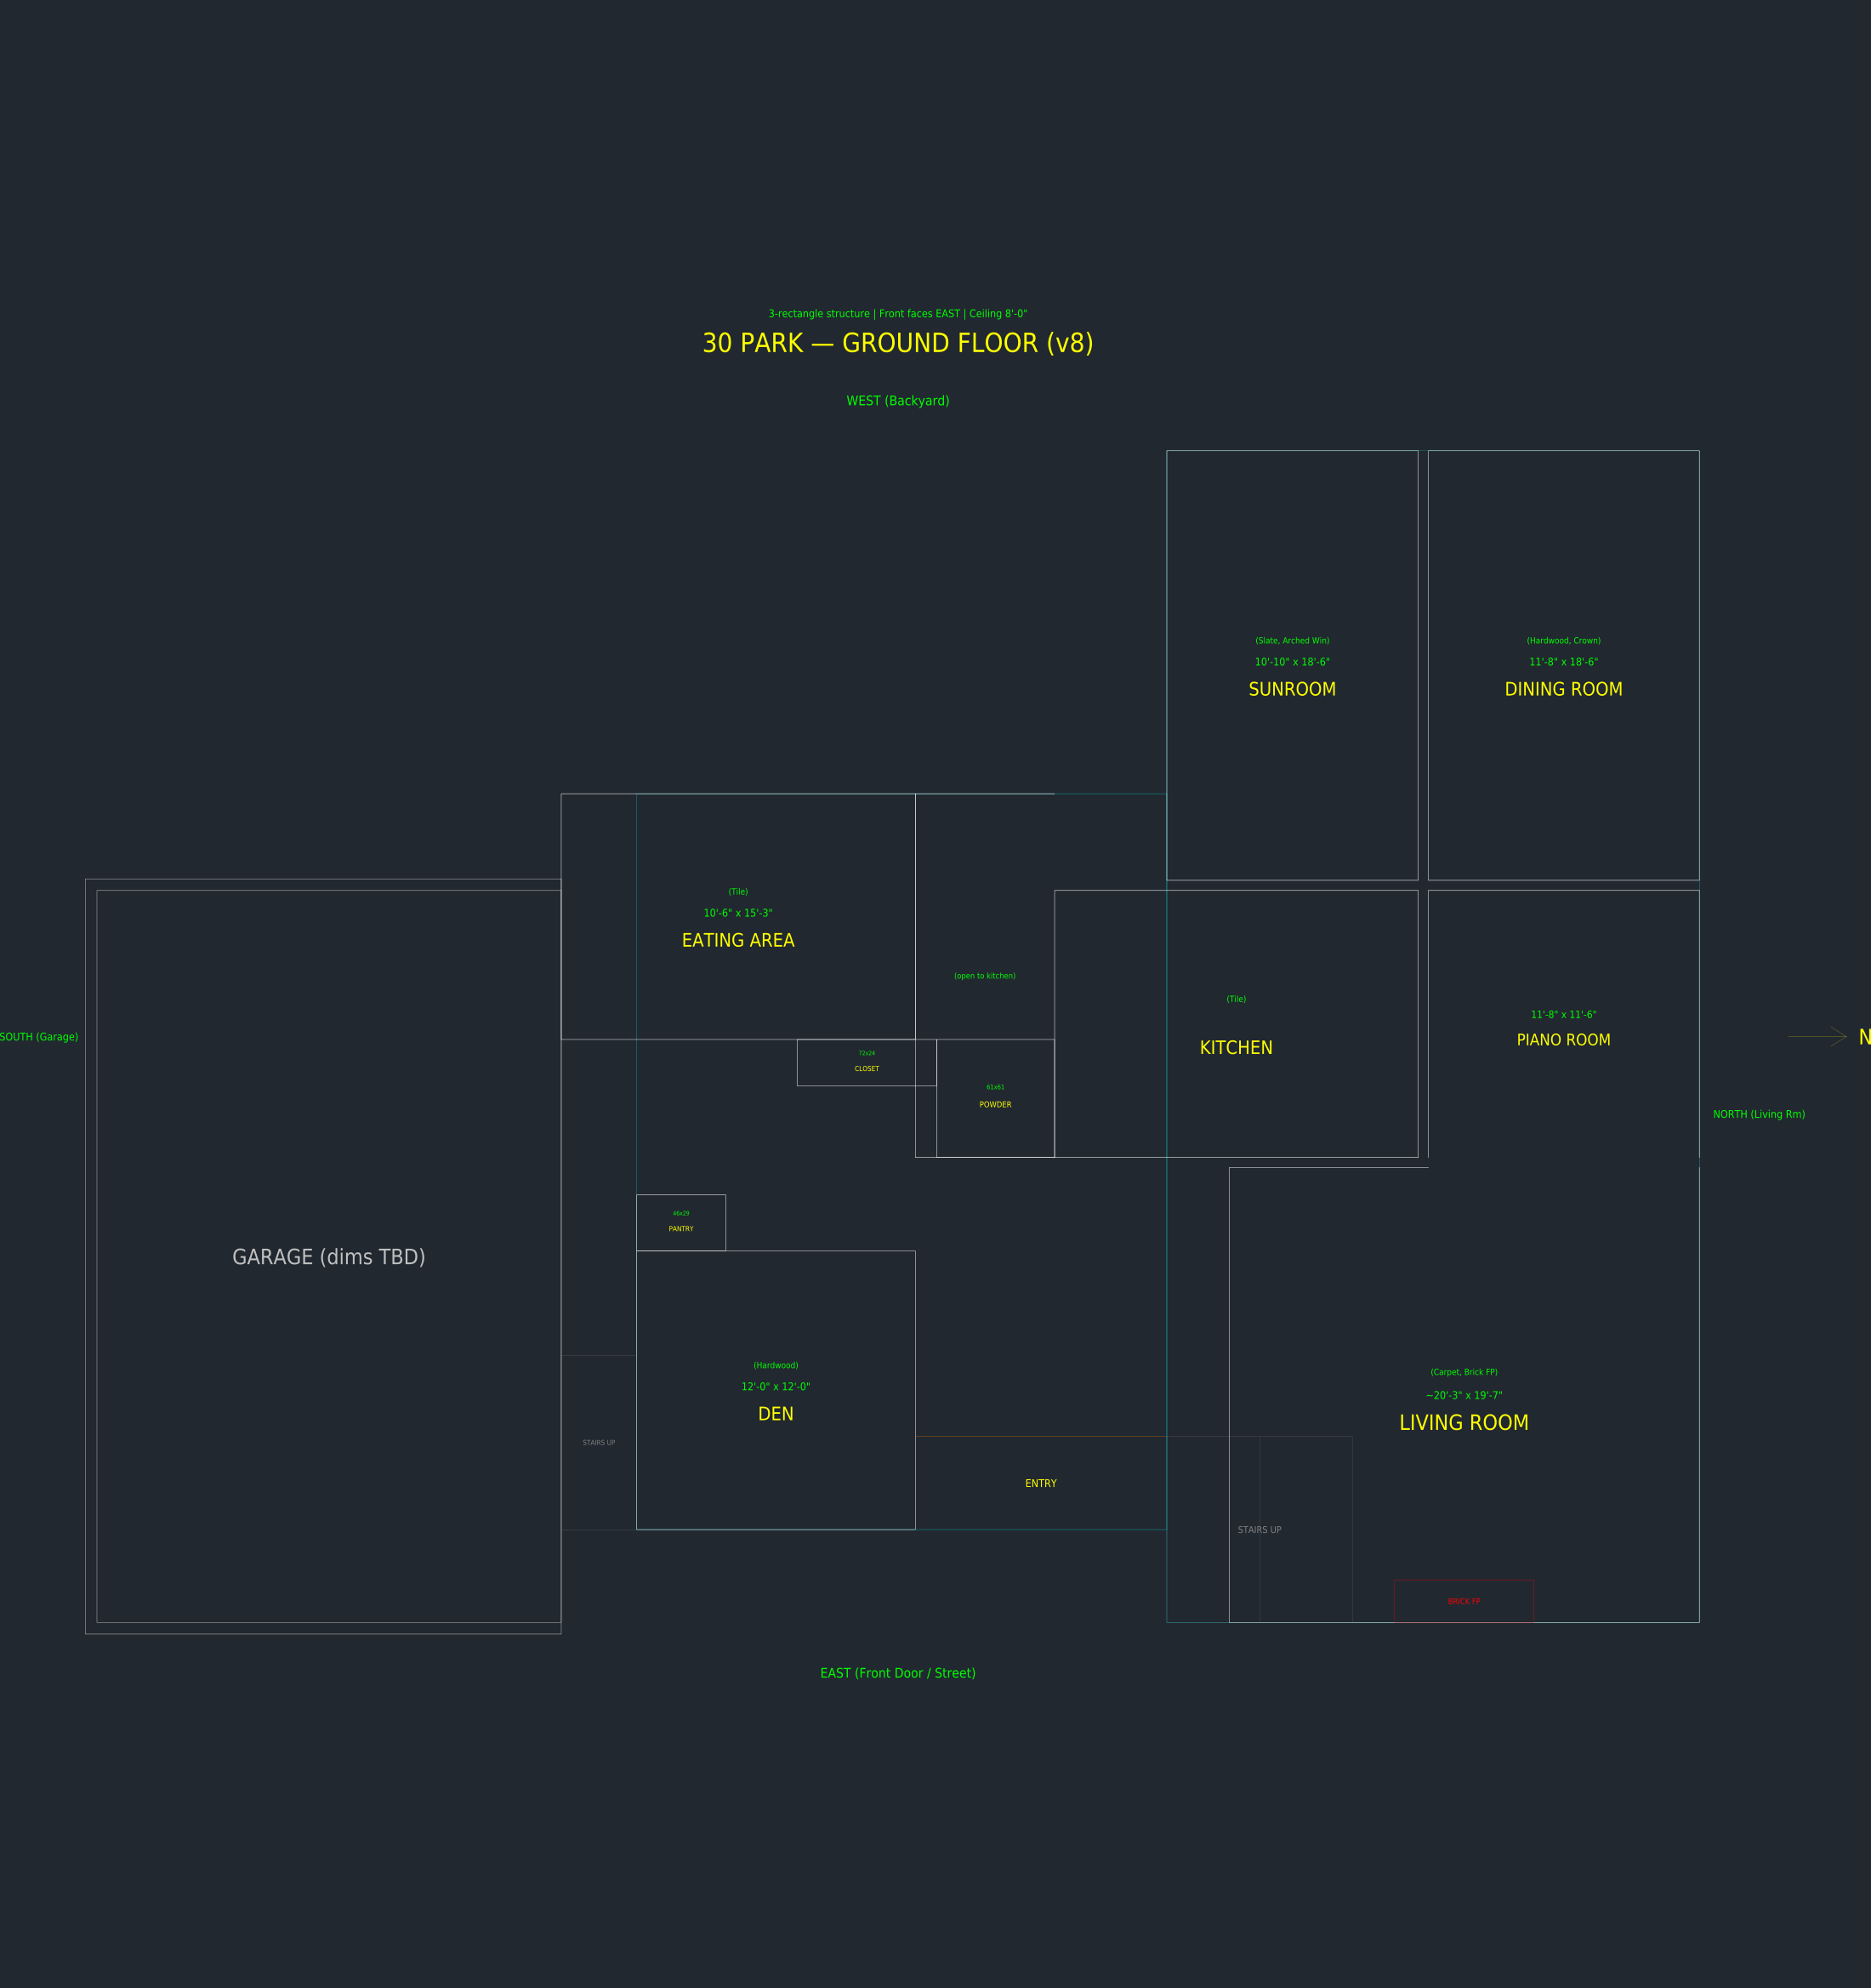
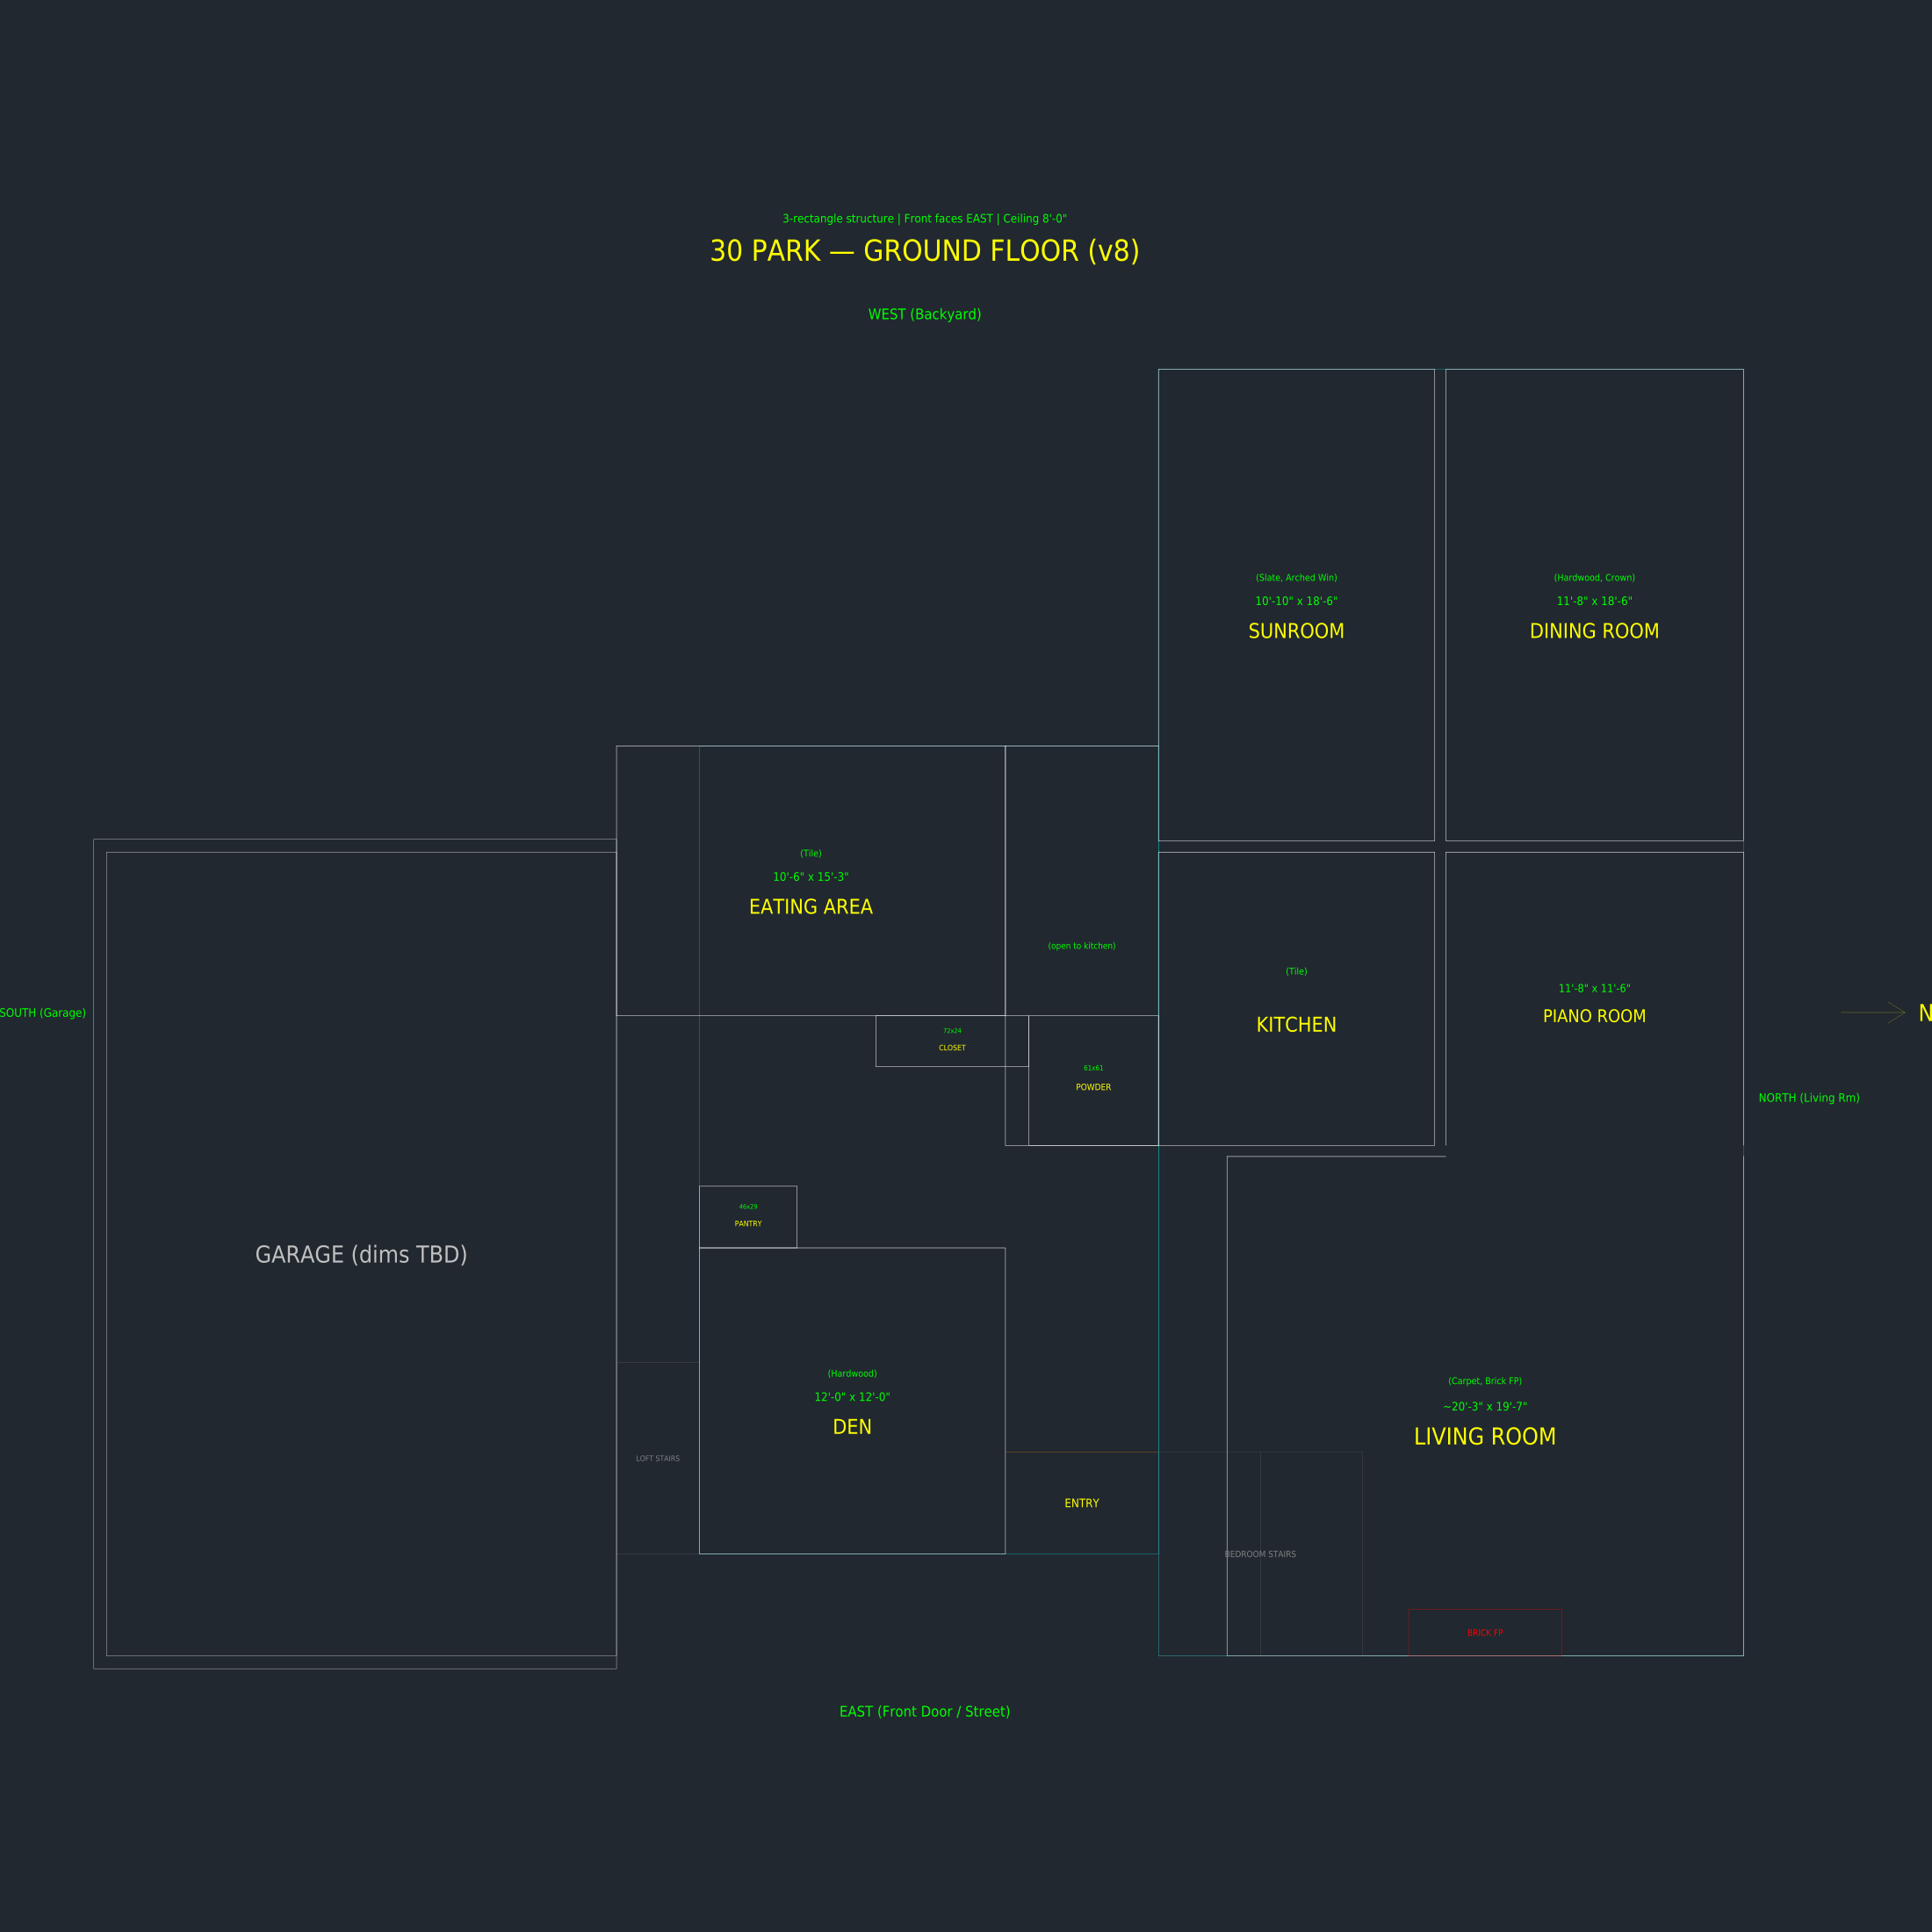
Floor plan v11 — 72in entry band, kitchen east of sunroom, stair labels
- Entryway = 72" (same as open space); both form the north band of central rectangle
- Kitchen south now = sunroom south (kitchen properly 130" N-S, directly east of sunroom)
- Renamed stairs: "Bedroom Stairs" (by living room), "Loft Stairs" (south of den)

diff --git a/docs/current/generate_floor_plan.py b/docs/current/generate_floor_plan.py
@@ -67,8 +67,10 @@ OPEN_N = OPEN_S + 72              # 495 (north edge = kitchen south)
 KIT_S = OPEN_N                    # 495 kitchen south
 DEN_N = EAT_N                     # 423 den north
 DEN_S = DEN_N - 144               # 279 den south
-SUN_S = DEN_N + 130               # 553 (entry 130" from den north to main stairs south)
-SUN_N = SUN_S + 130               # 683 sunroom north
+# kitchen is directly east of the sunroom -> kitchen south = sunroom south
+# entryway = open-space band = 72" (den north to bedroom-stairs south = sunroom south)
+SUN_S = KIT_S                     # 495 sunroom south = kitchen south
+SUN_N = SUN_S + 130               # 625 sunroom north
 KIT_N = SUN_N                     # 683 kitchen north = sun/dining divider line
 DIV_S = SUN_N; DIV_N = DIV_S + I  # sun/dining divider
 DIN_S = DIV_N                     # 688.25
@@ -166,14 +168,14 @@ def generate():
     T((ENTRY_S+ENTRY_N)/2,(FRONTDOOR_Y+DEN_E)/2,"ENTRY",4)
     LN(ENTRY_S,FRONTDOOR_Y,ENTRY_N,FRONTDOOR_Y,"DOOR")   # front-door wall line
 
-    # stairs UP between den (north) and garage (south); landing east wall = den east
+    # LOFT STAIRS between den (north) and garage (south); landing east wall = den east
     R(UPSTAIR_S, DEN_E-90, UPSTAIR_N-UPSTAIR_S, 90, "STR")
-    T((UPSTAIR_S+UPSTAIR_N)/2, DEN_E-45, "STAIRS UP", 2.6, "STR")
+    T((UPSTAIR_S+UPSTAIR_N)/2, DEN_E-45, "LOFT STAIRS", 2.6, "STR")
 
     # main stairs UP — double-wide on living room EAST wall, 180-deg turn
     R(STAIR_S, STAIR_W_Y, STAIR_N-STAIR_S, STAIR_E_Y-STAIR_W_Y, "STR")
     LN((STAIR_S+STAIR_N)/2, STAIR_W_Y, (STAIR_S+STAIR_N)/2, STAIR_E_Y, "STR")  # center wall of U
-    T((STAIR_S+STAIR_N)/2,(STAIR_W_Y+STAIR_E_Y)/2,"STAIRS UP",3.5,"STR")
+    T((STAIR_S+STAIR_N)/2,(STAIR_W_Y+STAIR_E_Y)/2,"BEDROOM STAIRS",3,"STR")
 
     # fireplace on living room east wall
     fcx=(LIV_S+LIV_N)/2